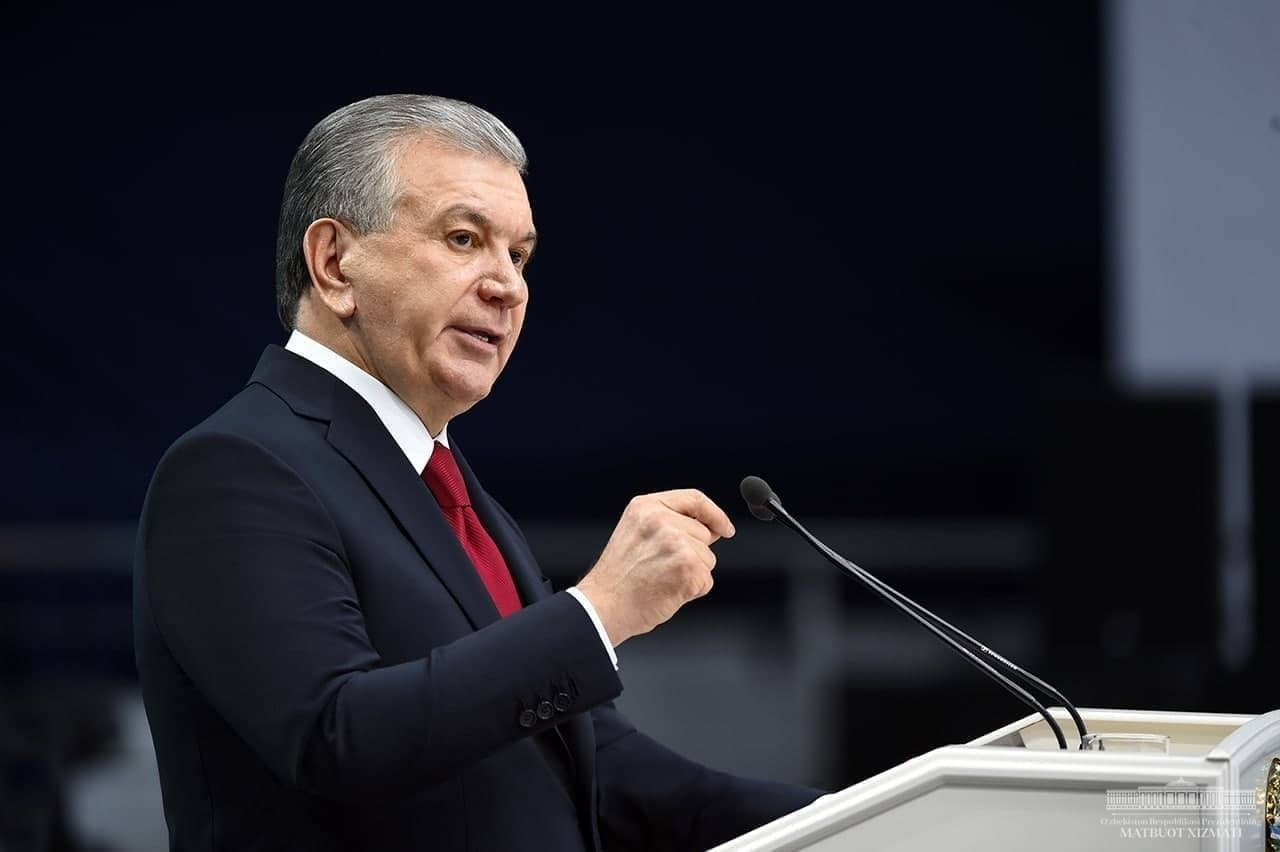
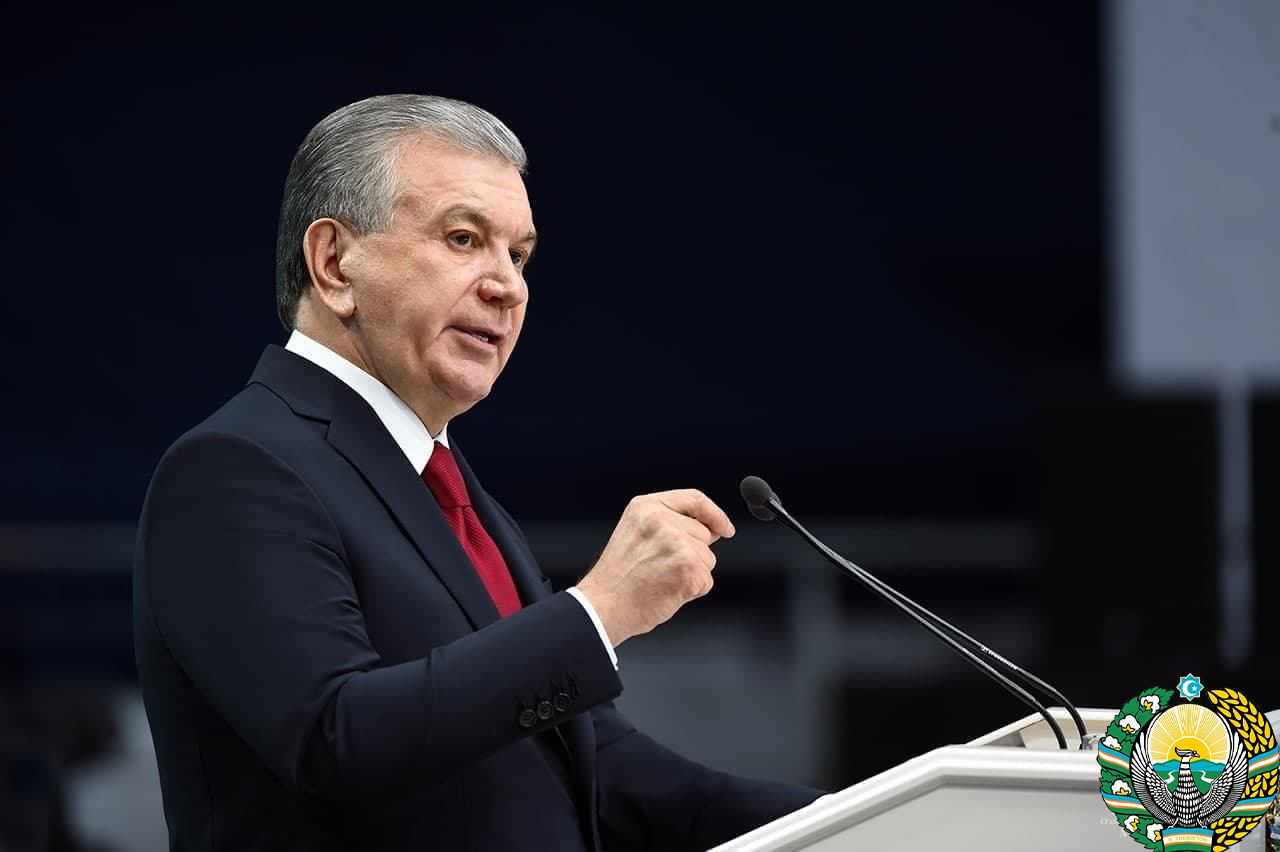
change president img and add author to the quote

Changed region(s): [[0.8438, 0.7934, 1.0, 1.0]]

diff --git a/src/pages/HomePage/HomePage.jsx b/src/pages/HomePage/HomePage.jsx
@@ -34,7 +34,8 @@ const HomePage = () => {
             <div className="row align-items-center">
               <div className="col-lg-6">
                 <div className="text">
-                  <h1 style={{color: "#f3e2a5"}}>NAMANGAN PEDAGOGIK <br/> MAHORAT MARKAZI
+                  <h1 style={{color: "#f3e2a5"}}>NAMANGAN VILOYATI <br/> PEDAGOGIK MAHORAT
+                    MARKAZI
                   </h1>
                   <p style={{color: "#fff", fontSize: "18px"}}>Bizning asosiy maqsadimiz -
                     zamonaviy, ilg'or
@@ -194,7 +195,7 @@ const HomePage = () => {
 
     {/* GOOGLE MAPS START */}
     <section id="maps">
-      <h1>Hududiy markazlar</h1>
+      <h1>Namangan Viloyati Markazi</h1>
       <div id="maps-content">
         <div id="map-wrapper">
           <svg viewBox="0 0 792.4873 516.87848">
@@ -392,6 +393,9 @@ const HomePage = () => {
           metodlari, ta'lim standartlari, darslik va o'quv qo'llanmalarini yangilash
           zarur. Bilim berishda ilg'or xorijiy tajribalardan foydalanish, tarbiyada esa
           milliy an'ana va qadriyatlarga suyanish muhim.
+        </p>
+        <p className="quote-author">
+          SHAVKAT MIRZIYOYEV
         </p>
       </div>
     </div>

diff --git a/src/pages/HomePage/HomePage.css b/src/pages/HomePage/HomePage.css
@@ -493,6 +493,7 @@ h3 {
 =============================*/
 
 .president-quote-wrapper {
+    position: relative;
     padding-bottom: 150px;
     background-color: #1a76d1;
     display: flex;
@@ -500,6 +501,7 @@ h3 {
     align-items: center;
 
     .president-quote {
+        position: relative;
         z-index: 5;
         margin-left: 10px;
         max-width: 600px;
@@ -512,6 +514,11 @@ h3 {
             text-align: left;
             line-height: 1.5;
             text-transform: uppercase;
+        }
+
+        p.quote-author {
+            margin-top: 50px;
+            color: #f3e2a5;
         }
 
     }
